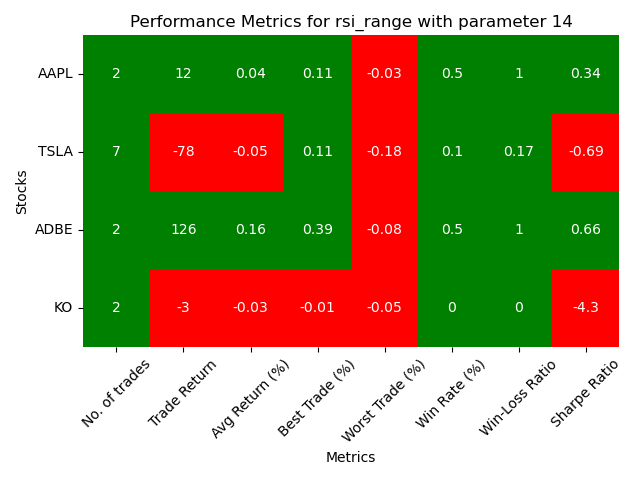
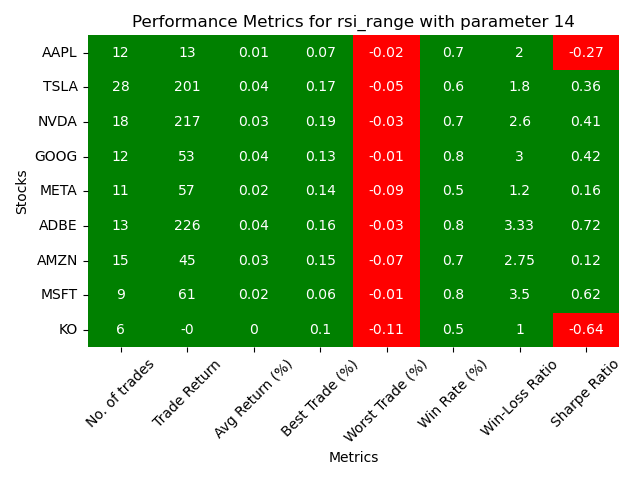
Feat: add new strategy

diff --git a/Backtesting/main.py b/Backtesting/main.py
@@ -8,6 +8,7 @@ from strategies import sma_crossover
 from strategies import rsi_crossover
 from strategies import rsi_range
 from strategies import support_resistance_breakout
+from strategies import mean_reversion_with_rsi
 import utils.backtesting as bt
 import utils.visualisation as vs
 
@@ -23,9 +24,13 @@ list_long_sma = [100,150,200]
 list_short_rsi = [6,7]
 list_long_rsi = [13,14]
 
+list_oversold = [50,55,60]
+list_overbought = [55,60,65]
+
 rsi_range_period = 14
 
-list_strategy = ['sma_crossover','rsi_range','rsi_crossover','support_resistance_breakout']
+# list_strategy = ['sma_crossover','rsi_range','rsi_crossover','support_resistance_breakout']
+list_strategy = ['rsi_range']
 
 for strategy in list_strategy:
 
@@ -49,18 +54,19 @@ for strategy in list_strategy:
                 vs.gen_analysis_heatmap(df_analysis_heatmap, title)
 
     elif strategy == 'rsi_range':
-        df_analysis_heatmap = vs.gen_heatmap_df()
-        for ticker in list_stock :
-            try:
-                df_raw = uf.getdata(ticker, close = "Adj Close")   
-                df = rsi_range.get_signal(df_raw, n_periods=rsi_range_period, close='Adj Close',overbought_threshold=70, oversold_threshold=30, stop_loss_pct=0.03)
-                df_trades, df_heatmap = bt.df_backtesting(df, ticker, risk_free_rate)
-                title = 'Performance Metrics for rsi_range with parameter {}'.format(rsi_range_period)
-            except Exception as e:
-                print(f"Error occurred: {e}")
-                continue
-            df_analysis_heatmap = pd.concat([df_analysis_heatmap, df_heatmap])
-        vs.gen_analysis_heatmap(df_analysis_heatmap, title)
+        for overbought, oversold in zip(list_overbought, list_oversold):
+            df_analysis_heatmap = vs.gen_heatmap_df()
+            for ticker in list_stock :
+                try:
+                    df_raw = uf.getdata(ticker, close = "Adj Close")   
+                    df = rsi_range.get_signal(df_raw, n_periods=rsi_range_period, close='Adj Close',overbought_threshold=overbought, oversold_threshold=oversold, stop_loss_pct=0.03)
+                    df_trades, df_heatmap = bt.df_backtesting(df, ticker, risk_free_rate)
+                except Exception as e:
+                    print(f"Error occurred: {e}")
+                    continue
+                df_analysis_heatmap = pd.concat([df_analysis_heatmap, df_heatmap])
+            title = f'Performance Metrics for rsi_range with parameter {rsi_range_period} and oversold={oversold} and overbought={overbought}'
+            vs.gen_analysis_heatmap(df_analysis_heatmap, title)
 
     elif strategy == 'rsi_crossover':            
         for short_rsi in list_short_rsi:
@@ -71,11 +77,11 @@ for strategy in list_strategy:
                         df_raw = uf.getdata(ticker, close = "Adj Close")     
                         df = rsi_crossover.get_signal(df_raw, close="Adj Close", list_periods=[short_rsi,long_rsi], stop_loss_pct=0.03)
                         df_trades, df_heatmap =bt.df_backtesting(df, ticker, risk_free_rate)
-                        title = 'Performance Metrics for rsi_crossover with parameter ({},{})'.format(short_rsi, long_rsi)
                     except Exception as e:
                         print(f"Error occurred: {e}")
                         continue
                     df_analysis_heatmap = pd.concat([df_analysis_heatmap, df_heatmap])
+                title = 'Performance Metrics for rsi_crossover with parameter ({},{})'.format(short_rsi, long_rsi)    
                 vs.gen_analysis_heatmap(df_analysis_heatmap, title)
 
     elif strategy =='support_resistance_breakout':
@@ -92,5 +98,19 @@ for strategy in list_strategy:
             df_analysis_heatmap = pd.concat([df_analysis_heatmap, df_heatmap])
         vs.gen_analysis_heatmap(df_analysis_heatmap, title)
 
-        
+    elif strategy =='mean_reversion_with_rsi':
+        for overbought, oversold in zip(list_overbought, list_oversold): 
+            df_analysis_heatmap = vs.gen_heatmap_df()
+            for ticker in list_stock:   
+                try:
+                    df_raw = uf.getdata(ticker, close = "Adj Close")  
+                    df = mean_reversion_with_rsi.get_signal(df_raw, 'Adj Close', [50,200], rsi_range_period, oversold, overbought)
+                    df_trades, df_heatmap =bt.df_backtesting(df, ticker, risk_free_rate)
+                except Exception as e:
+                    print(f"Error occurred: {e}")
+                    continue
+                df_analysis_heatmap = pd.concat([df_analysis_heatmap, df_heatmap])
+            title = f'Performance Metrics for mean_reversion_with_rsi with oversold={oversold}, overbought={overbought}'
+            vs.gen_analysis_heatmap(df_analysis_heatmap, title)
+
     

diff --git a/Backtesting/strategies/mean_reversion_with_rsi.py b/Backtesting/strategies/mean_reversion_with_rsi.py
@@ -1,0 +1,37 @@
+import pandas as pd
+import ta
+
+def SMA(df, n, close):
+    """
+    Return simple moving average of `values`, at
+    each step taking into account `n` previous values.
+
+    df (pd.DataFrame)
+    n (int): Number of previous values
+    close (str): Which column to calculate the SMA
+    """
+    
+    return pd.Series(df[close]).rolling(n).mean()
+
+
+def get_signal(df, close, sma_value, rsi_periods, oversold, overbought):
+
+    df['rsi'] = ta.momentum.rsi(df[close], window=rsi_periods)
+
+    for i in sma_value:
+            variable_name = 'SMA'+ str(i)
+            df[variable_name] = SMA(df,i,close)
+        
+    short_sma = min(sma_value)
+    long_sma = max(sma_value)
+
+    short_sma_col = 'SMA{}'.format(short_sma)
+    long_sma_col = 'SMA{}'.format(long_sma)
+
+    print(f"Executing Mean Reversion ..., i.e. buy when below sma_{long_sma} and rsi_{rsi_periods} below {oversold}, sell when above sma_{short_sma} and rsi_{rsi_periods} above {overbought}")
+
+    df['Signal'] = 0
+    df.loc[(df[['Open', close]].min(axis=1) < df[long_sma_col]) & (df['rsi']<oversold),'Signal'] = 1
+    df.loc[(df[['Open', close]].max(axis=1) > df[short_sma_col]) & (df['rsi']>overbought),'Signal'] = -1
+    
+    return df
